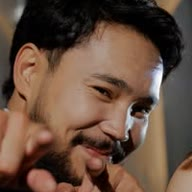
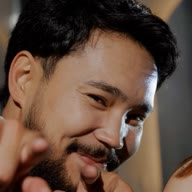
Фото Касыма в хорошем качестве (основатель и аватар)

diff --git a/src/components/Founder.tsx b/src/components/Founder.tsx
@@ -10,8 +10,8 @@ export default function Founder() {
             <img
               src="/kasym-about.jpg"
               alt="Касым Амангельдин, основатель Qasym Barbershop"
-              width={361}
-              height={640}
+              width={840}
+              height={1260}
               loading="lazy"
               className="aspect-[4/5] w-full object-cover object-top"
             />
